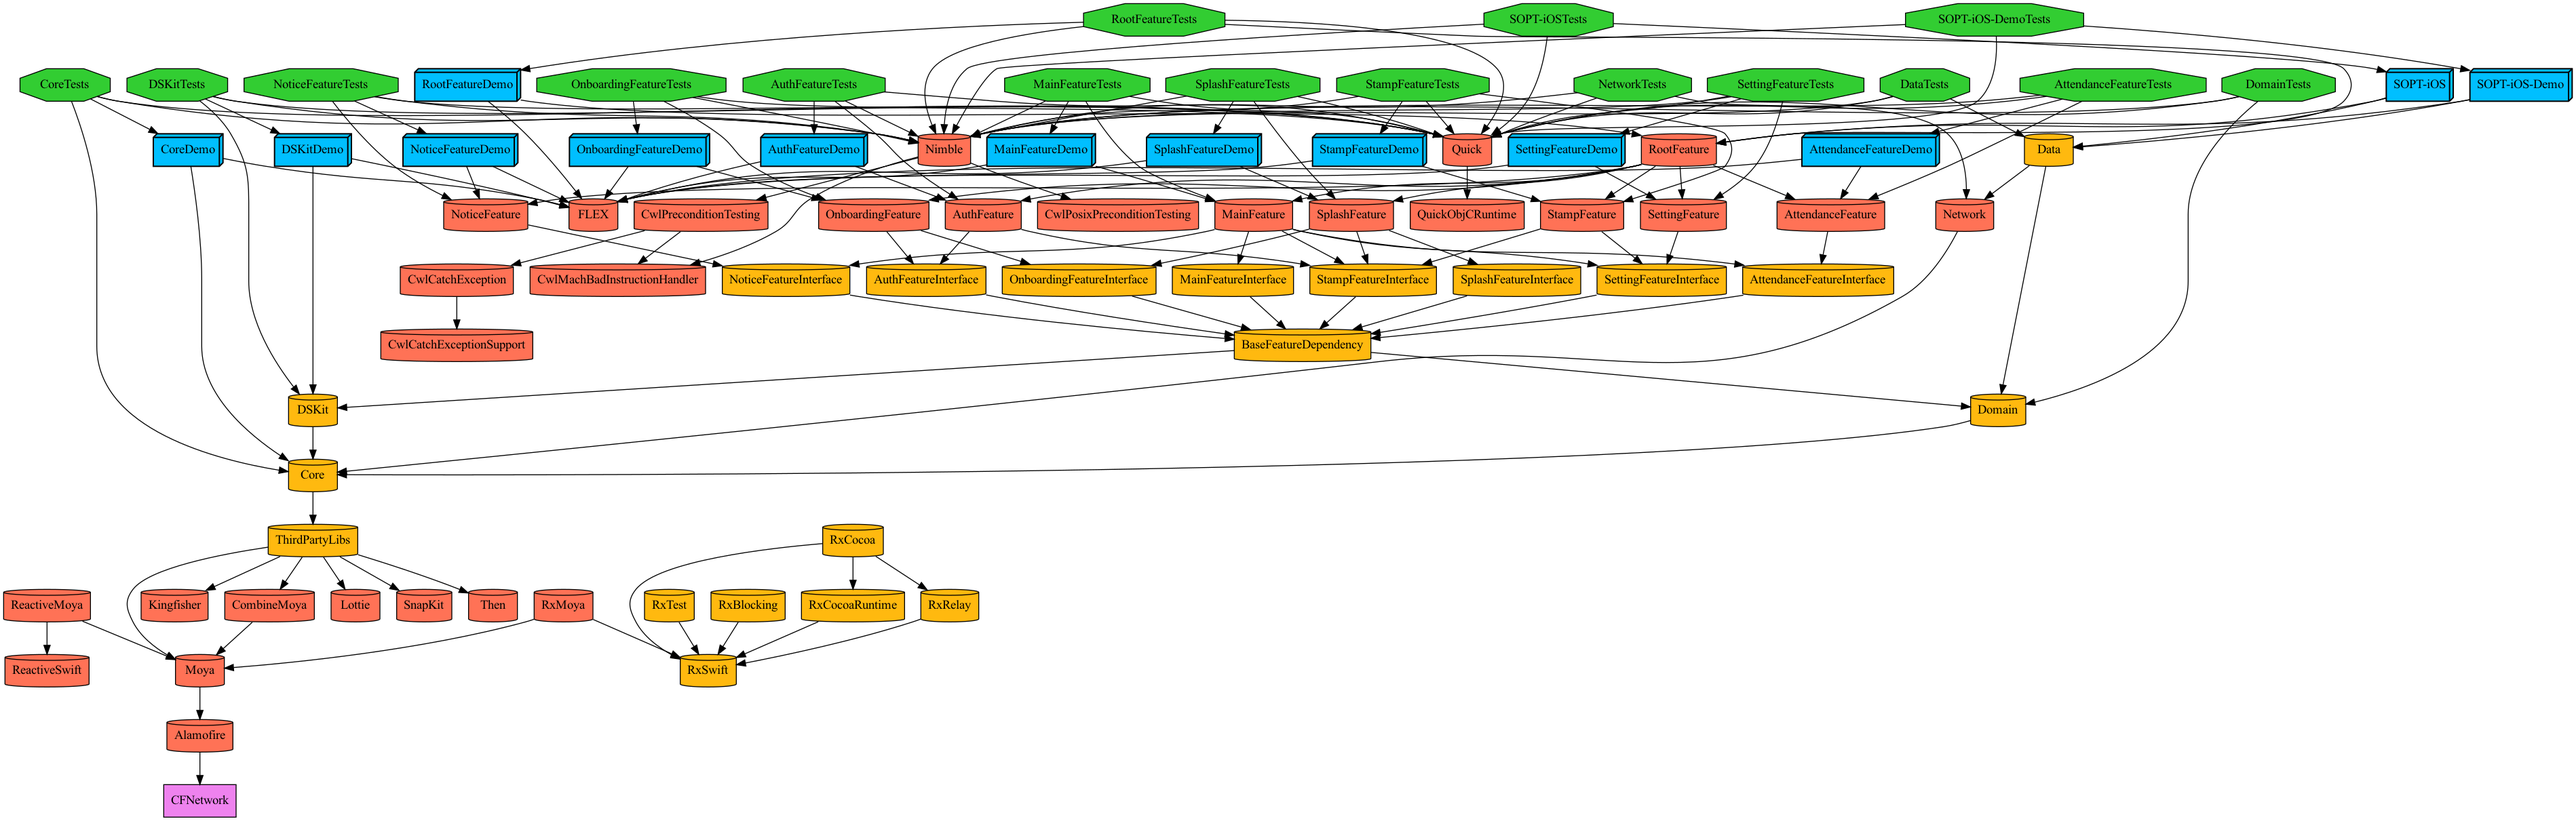
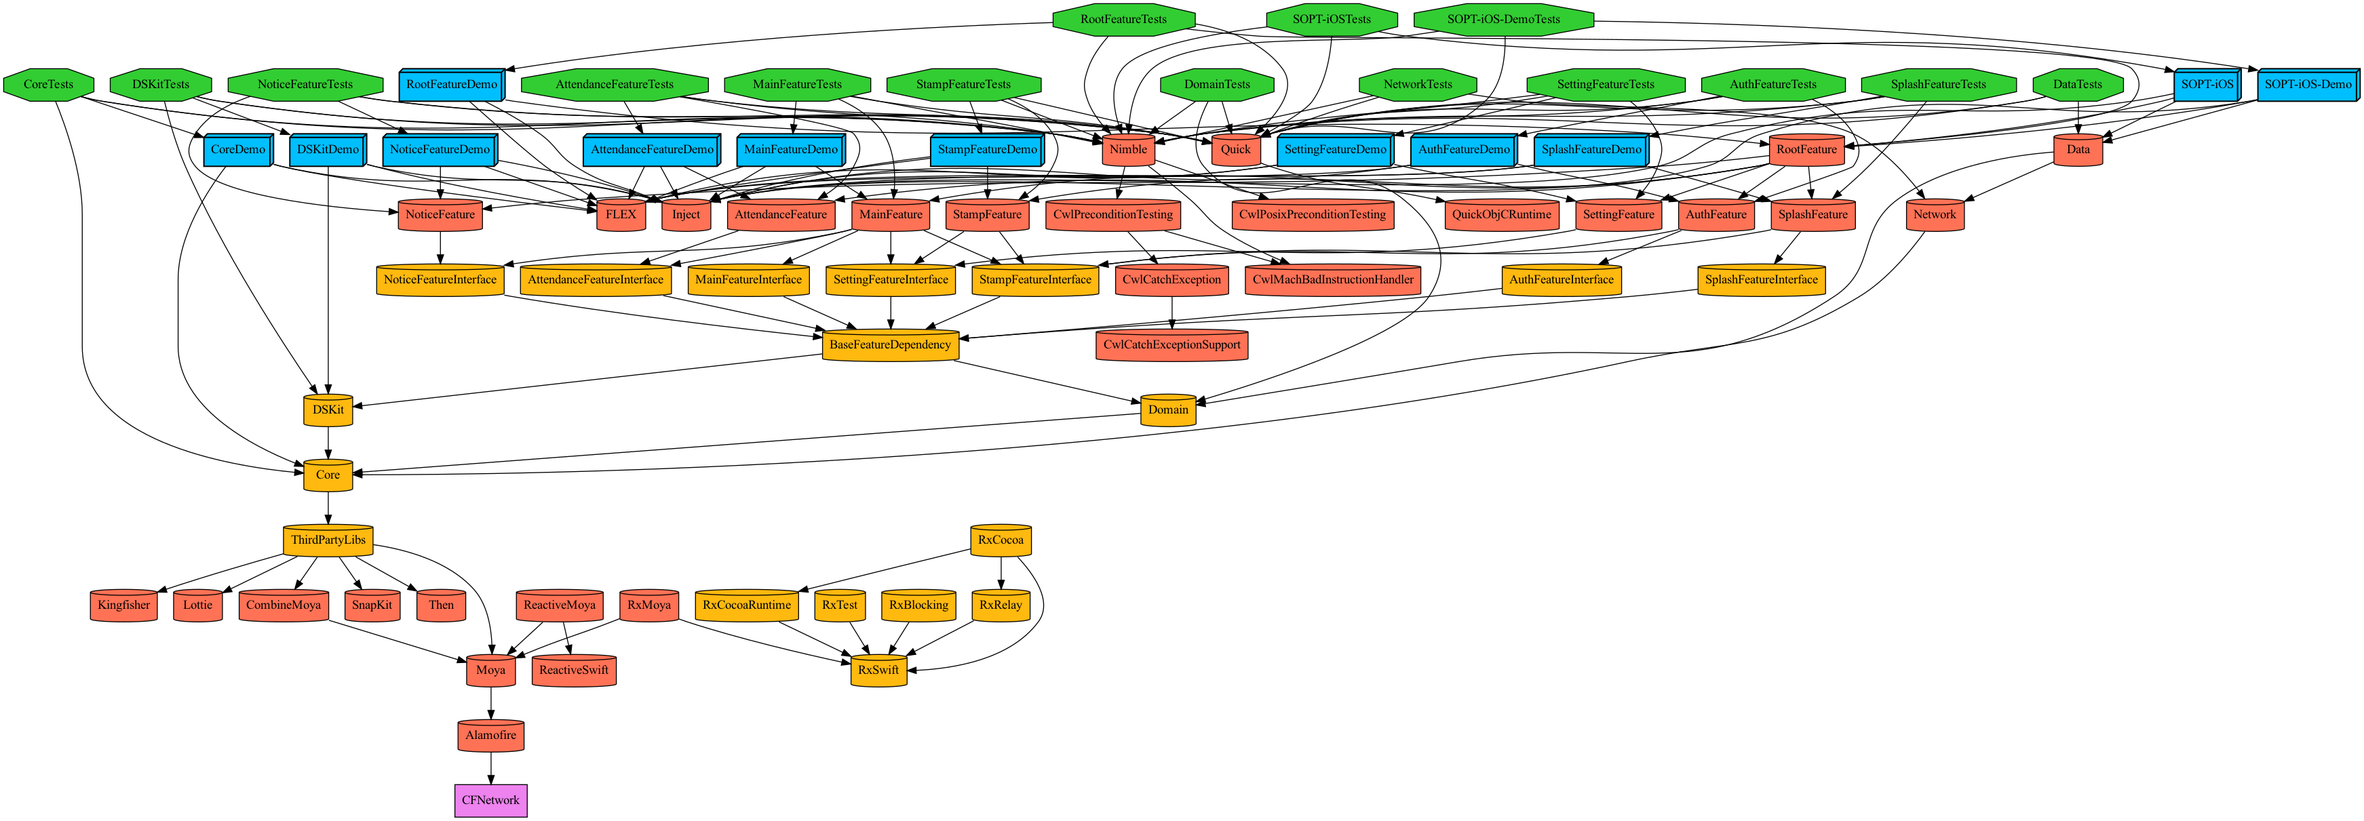
[fix] #160 - Data 모듈 static Library로 수정
Data 모듈 static으로 수정 및 -all_load 제거

diff --git a/SOPT-iOS/Tuist/ProjectDescriptionHelpers/Project+Templates.swift b/SOPT-iOS/Tuist/ProjectDescriptionHelpers/Project+Templates.swift
@@ -21,9 +21,7 @@ public extension Project {
         let deploymentTarget = Environment.deploymentTarget
         let platform = Environment.platform
         
-        let baseSettings: SettingsDictionary = hasDynamicFramework
-        ? .allLoadSettings.setCodeSignManual()
-        : .baseSettings.setCodeSignManual()
+        let baseSettings: SettingsDictionary = .baseSettings.setCodeSignManual()
         
         var projectTargets: [Target] = []
         var schemes: [Scheme] = []

diff --git a/SOPT-iOS/Projects/Data/Project.swift b/SOPT-iOS/Projects/Data/Project.swift
@@ -11,7 +11,7 @@ import DependencyPlugin
 
 let project = Project.makeModule(
     name: "Data",
-    targets: [.unitTest, .dynamicFramework],
+    targets: [.unitTest, .staticFramework],
     internalDependencies: [
         .domain,
         .Modules.network
